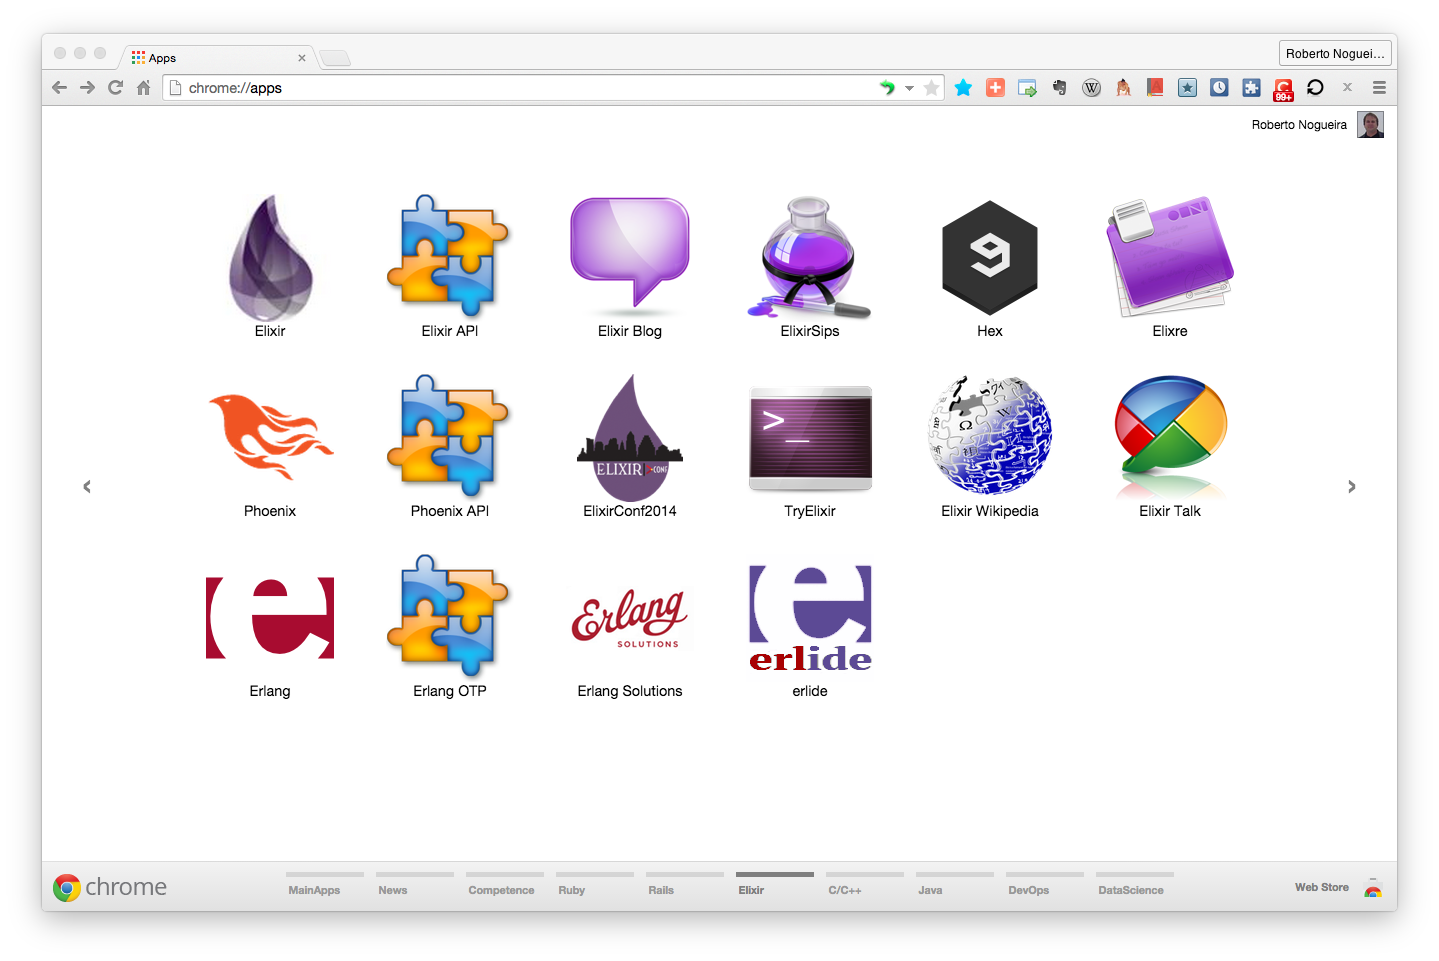
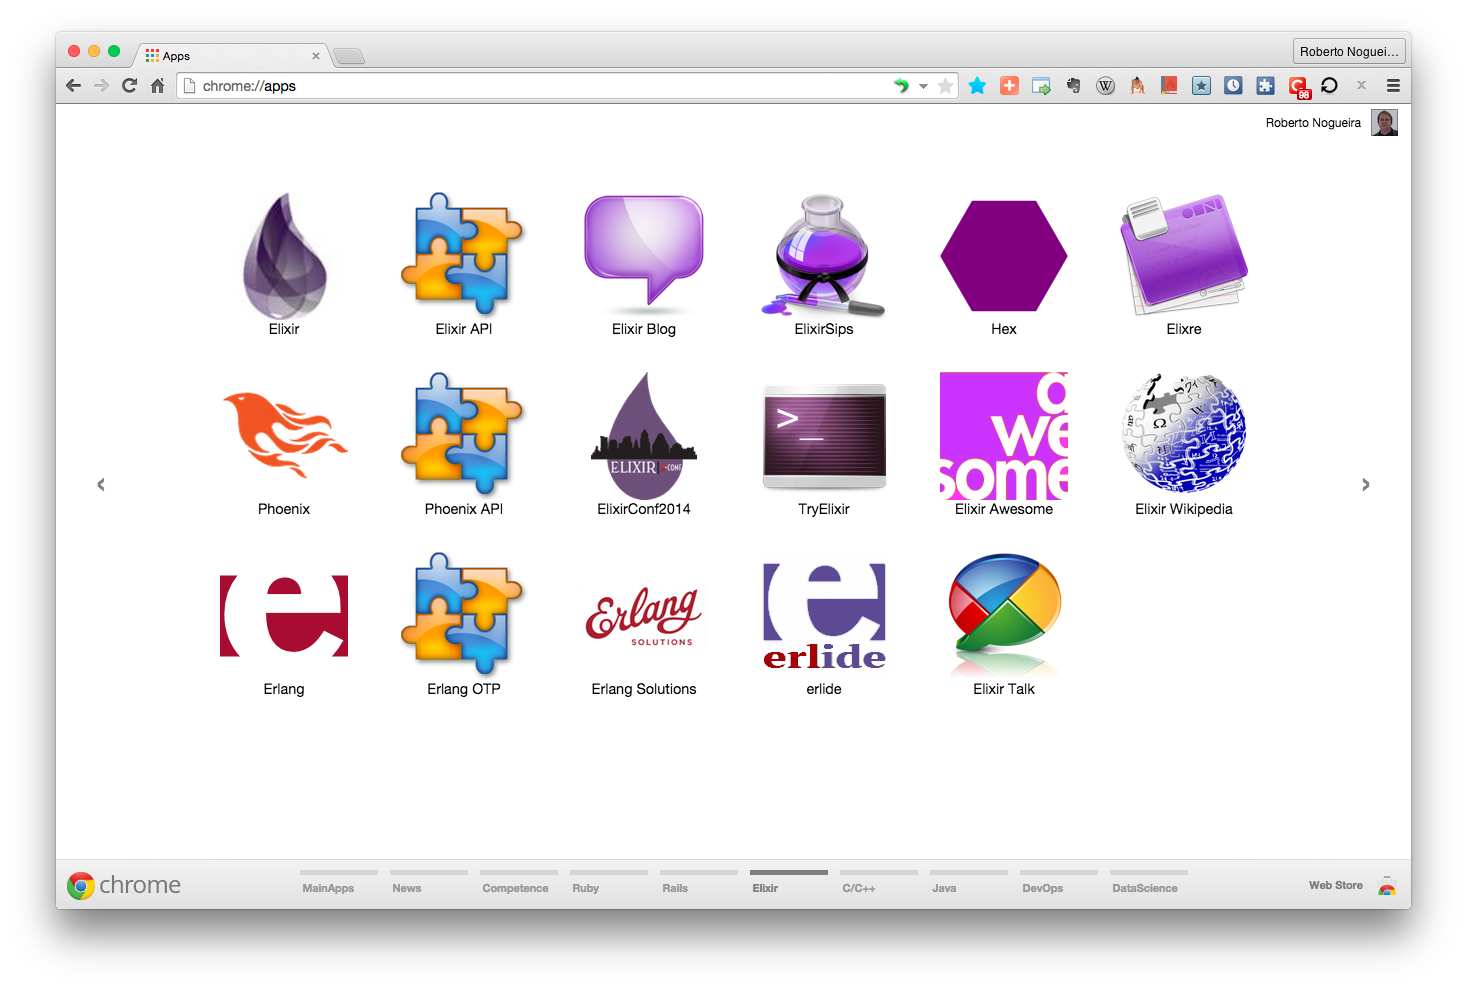
Update README.md file

diff --git a/README.md b/README.md
@@ -23,6 +23,7 @@ drwxr-xr-x   18 enogrob  staff   612B Mar 23 08:12 ChromeApps_Elixir/
 
 $ tree -L 1 ChromeApps_Elixir/
 ChromeApps_Elixir/
+├── Elixir-Awesome
 ├── Elixir-Blog
 ├── Elixir-Conf2014
 ├── Elixir-ElixirAPI
@@ -31,6 +32,7 @@ ChromeApps_Elixir/
 ├── Elixir-Erlang
 ├── Elixir-ErlangOTP
 ├── Elixir-ErlangSolutions
+├── Elixir-Exrm
 ├── Elixir-GoogleGroups
 ├── Elixir-Hex
 ├── Elixir-Homepage
@@ -43,7 +45,7 @@ ChromeApps_Elixir/
 ├── README.md
 └── images
 
-18 directories, 1 file
+20 directories, 1 file
 $
 ```
 
